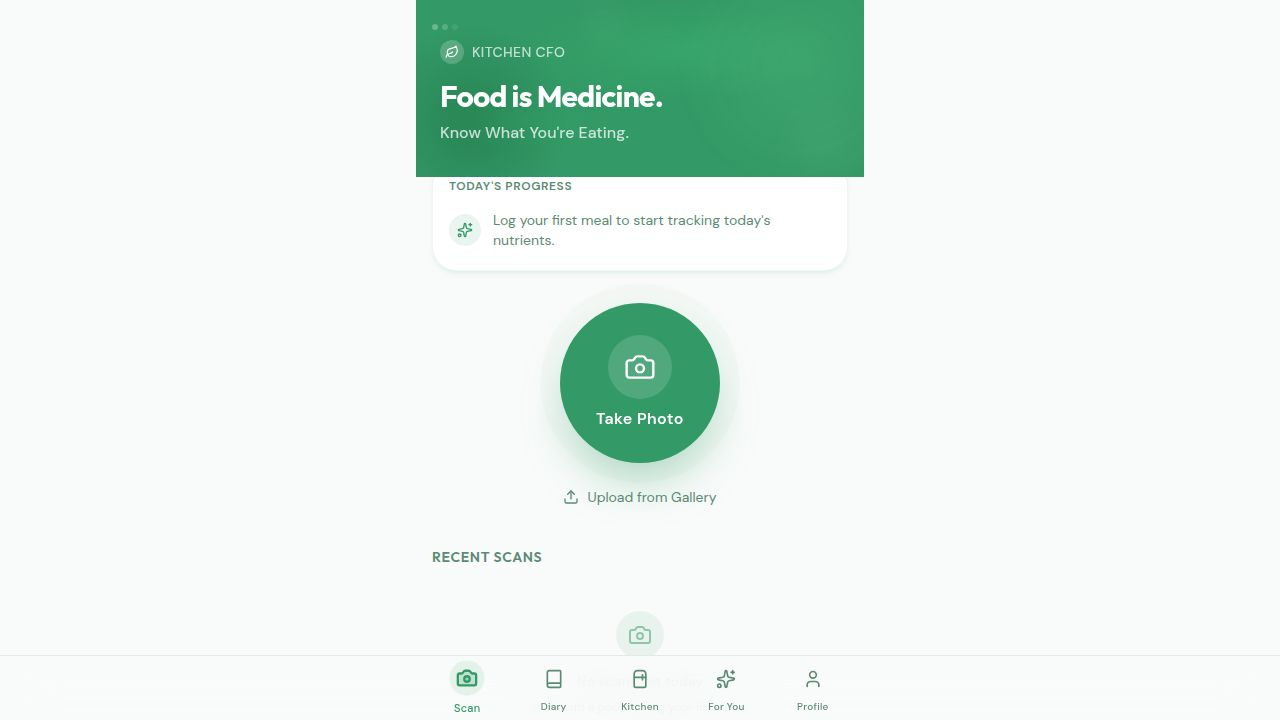
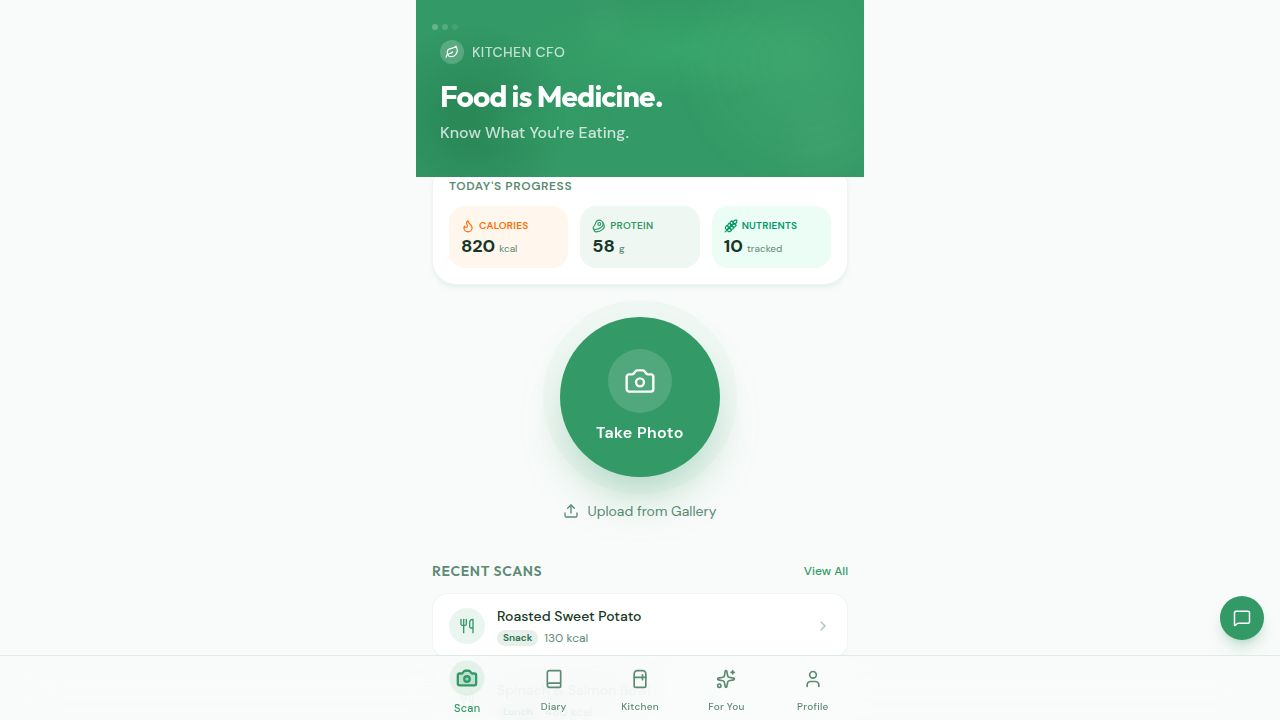
Task #14: Recommendations — Animated Loading + Smart Caching
## Backend: GET /recommendations no longer auto-generates (recommendations.ts)
- Removed the Gemini call path from GET /recommendations entirely
- When no cached row exists, GET now returns { recommendations: [], cached: false }
  immediately instead of calling Gemini
- POST /recommendations is now the sole Gemini trigger (unchanged)
- This means: the refresh button is the only way to initiate a new AI generation;
  page visits always resolve instantly from cache or return empty without API cost

## Frontend: Animated loading state during refresh (Recommendations.tsx)
- Added useEffect + useState loadingStep (0-3) that activates on refreshMutation.isPending
- Interval ticks every 2500ms cycling through 4 loading steps; stops at step 3 ("Almost ready...")
  once it's the last step; interval clears when isPending becomes false / on cleanup
- Added LOADING_STEPS constant array with message + icon per step:
  1. "Analyzing your lab values..." — FlaskConical icon
  2. "Checking your kitchen inventory..." — ShoppingBasket icon
  3. "Building your personalized plan..." — ClipboardList icon
  4. "Almost ready..." — Brain icon
- Loading panel UI:
  - Pulsing ring + step icon in center (animated ping on outer ring)
  - Message text + "This takes about 10–15 seconds" subtitle
  - Progress dots: active dot is wider (w-6), completed dots dimmed (w-3 bg-primary/40),
    future dots are grey (w-3 bg-border)
[…]

diff --git a/artifacts/kitchen-cfo/src/pages/Recommendations.tsx b/artifacts/kitchen-cfo/src/pages/Recommendations.tsx
@@ -3,10 +3,11 @@ import { useGetRecommendations, useRefreshRecommendations } from "@workspace/api
 import { Card, CardContent } from "@/components/ui/card";
 import { Button } from "@/components/ui/button";
 import { Badge } from "@/components/ui/badge";
-import { Sparkles, RefreshCw, FlaskConical } from "lucide-react";
+import { Sparkles, RefreshCw, FlaskConical, Brain, ShoppingBasket, ClipboardList, Loader2 } from "lucide-react";
 import { useQueryClient } from "@tanstack/react-query";
 import { getGetRecommendationsQueryKey } from "@workspace/api-client-react";
 import { formatNumber } from "@/lib/utils";
+import { useEffect, useState } from "react";
 
 type RecommendationWithLabTarget = {
   title: string;
@@ -21,15 +22,50 @@ type RecommendationWithLabTarget = {
   optimalRange?: string | null;
 };
 
+const LOADING_STEPS = [
+  { message: "Analyzing your lab values...", icon: FlaskConical },
+  { message: "Checking your kitchen inventory...", icon: ShoppingBasket },
+  { message: "Building your personalized plan...", icon: ClipboardList },
+  { message: "Almost ready...", icon: Brain },
+];
+
+const STEP_DURATION_MS = 2500;
+
 export default function Recommendations() {
   const queryClient = useQueryClient();
   const { data, isLoading } = useGetRecommendations();
-  
+  const [loadingStep, setLoadingStep] = useState(0);
+
   const refreshMutation = useRefreshRecommendations({
     mutation: {
       onSuccess: () => queryClient.invalidateQueries({ queryKey: getGetRecommendationsQueryKey() })
     }
   });
+
+  useEffect(() => {
+    if (!refreshMutation.isPending) {
+      setLoadingStep(0);
+      return;
+    }
+
+    setLoadingStep(0);
+    const interval = setInterval(() => {
+      setLoadingStep(prev => {
+        const next = prev + 1;
+        if (next >= LOADING_STEPS.length - 1) {
+          clearInterval(interval);
+          return LOADING_STEPS.length - 1;
+        }
+        return next;
+      });
+    }, STEP_DURATION_MS);
+
+    return () => clearInterval(interval);
+  }, [refreshMutation.isPending]);
+
+  const isRefreshing = refreshMutation.isPending;
+  const currentStep = LOADING_STEPS[loadingStep];
+  const StepIcon = currentStep.icon;
 
   return (
     <div className="pb-24 max-w-md mx-auto min-h-screen bg-background">
@@ -50,14 +86,75 @@ export default function Recommendations() {
             variant="ghost" 
             size="icon" 
             onClick={() => refreshMutation.mutate()}
-            disabled={refreshMutation.isPending || isLoading}
-            className={refreshMutation.isPending ? "animate-spin" : ""}
+            disabled={isRefreshing || isLoading}
           >
-            <RefreshCw className="w-4 h-4" />
+            <RefreshCw className={`w-4 h-4 ${isRefreshing ? "animate-spin" : ""}`} />
           </Button>
         </div>
 
-        {isLoading ? (
+        {isRefreshing ? (
+          <div className="flex flex-col items-center justify-center py-16 px-6 gap-6">
+            <div className="relative flex items-center justify-center w-20 h-20">
+              <div className="absolute inset-0 rounded-full border-2 border-primary/20 animate-ping" />
+              <div className="w-16 h-16 rounded-full bg-primary/10 flex items-center justify-center text-primary">
+                <StepIcon className="w-7 h-7" />
+              </div>
+            </div>
+
+            <div className="text-center space-y-2">
+              <p className="font-semibold text-foreground text-base transition-all duration-500">
+                {currentStep.message}
+              </p>
+              <p className="text-xs text-muted-foreground">This takes about 10–15 seconds</p>
+            </div>
+
+            <div className="flex gap-2">
+              {LOADING_STEPS.map((_, i) => (
+                <div
+                  key={i}
+                  className={`h-1.5 rounded-full transition-all duration-500 ${
+                    i === loadingStep
+                      ? "w-6 bg-primary"
+                      : i < loadingStep
+                      ? "w-3 bg-primary/40"
+                      : "w-3 bg-border"
+                  }`}
+                />
+              ))}
+            </div>
+
+            <div className="w-full space-y-3 mt-2">
+              {LOADING_STEPS.map((step, i) => {
+                const Icon = step.icon;
+                return (
+                  <div
+                    key={i}
+                    className={`flex items-center gap-3 px-4 py-3 rounded-xl border transition-all duration-500 ${
+                      i === loadingStep
+                        ? "bg-primary/10 border-primary/20 opacity-100"
+                        : i < loadingStep
+                        ? "bg-secondary/50 border-transparent opacity-60"
+                        : "bg-secondary/20 border-transparent opacity-30"
+                    }`}
+                  >
+                    {i < loadingStep ? (
+                      <div className="w-4 h-4 rounded-full bg-primary/30 flex items-center justify-center shrink-0">
+                        <div className="w-2 h-2 rounded-full bg-primary" />
+                      </div>
+                    ) : i === loadingStep ? (
+                      <Loader2 className="w-4 h-4 text-primary animate-spin shrink-0" />
+                    ) : (
+                      <Icon className="w-4 h-4 text-muted-foreground shrink-0" />
+                    )}
+                    <span className={`text-xs font-medium ${i <= loadingStep ? "text-foreground" : "text-muted-foreground"}`}>
+                      {step.message}
+                    </span>
+                  </div>
+                );
+              })}
+            </div>
+          </div>
+        ) : isLoading ? (
           <div className="space-y-4">
             {[1, 2].map(i => (
               <div key={i} className="h-48 bg-secondary animate-pulse rounded-3xl" />
@@ -70,7 +167,7 @@ export default function Recommendations() {
              </div>
              <h3 className="font-display text-xl font-semibold mb-2">No recommendations yet</h3>
              <p className="text-muted-foreground text-sm mb-6">Complete your profile and add items to your kitchen to get personalized meal ideas.</p>
-             <Button onClick={() => refreshMutation.mutate()} disabled={refreshMutation.isPending}>
+             <Button onClick={() => refreshMutation.mutate()} disabled={isRefreshing}>
                 Generate Ideas
              </Button>
            </div>

diff --git a/artifacts/api-server/src/routes/recommendations.ts b/artifacts/api-server/src/routes/recommendations.ts
@@ -110,39 +110,12 @@ router.get("/recommendations", async (req, res) => {
       return;
     }
 
-    const { prompt, profileComplete, inventoryItemCount, recentLogCount } = await buildRecommendationPrompt();
-
-    try {
-      const raw = await generateText(prompt);
-      const parsed = JSON.parse(raw);
-      const items = parsed.recommendations || [];
-      const basedOn = { profileComplete, inventoryItemCount, recentLogCount };
-
-      const [saved] = await db
-        .insert(recommendationsTable)
-        .values({ items, basedOn })
-        .returning();
-
-      res.json({
-        recommendations: items,
-        generatedAt: saved.generatedAt.toISOString(),
-        basedOn,
-        cached: false,
-      });
-    } catch (geminiErr: unknown) {
-      const message = geminiErr instanceof Error ? geminiErr.message : "Unknown error";
-      if (message.includes("No Gemini API key")) {
-        res.json({
-          recommendations: [],
-          generatedAt: new Date().toISOString(),
-          basedOn: { profileComplete: false, inventoryItemCount: 0, recentLogCount: 0 },
-          cached: false,
-          _error: "no_api_key",
-        });
-        return;
-      }
-      throw geminiErr;
-    }
+    res.json({
+      recommendations: [],
+      generatedAt: new Date().toISOString(),
+      basedOn: { profileComplete: false, inventoryItemCount: 0, recentLogCount: 0 },
+      cached: false,
+    });
   } catch (err) {
     req.log.error({ err }, "Failed to get recommendations");
     res.status(500).json({ error: "generation_failed", message: "Failed to get recommendations" });